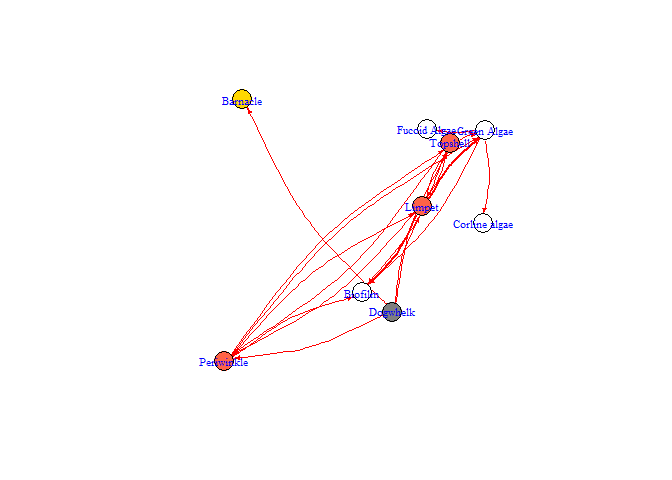
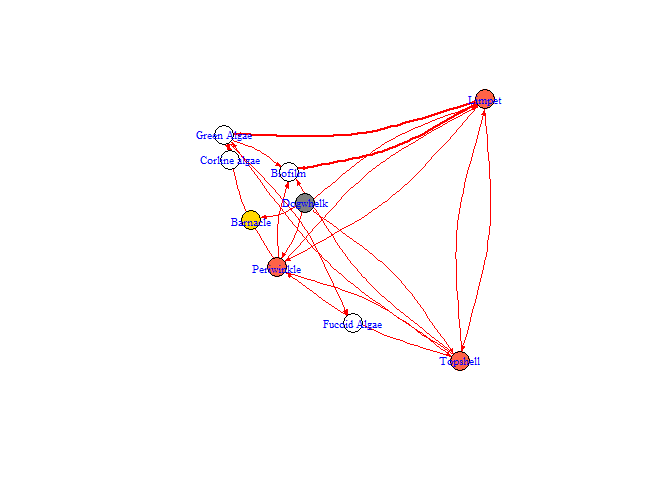
Updated 22 March 2024

diff --git a/README.md b/README.md
@@ -32,6 +32,7 @@ Rick Stafford & Victoria Dominguez Almela
 status](https://www.r-pkg.org/badges/version/bbnet)](https://CRAN.R-project.org/package=bbnet)
 [![Codecov test
 coverage](https://codecov.io/gh/vda1r22/bbnet/branch/main/graph/badge.svg)](https://app.codecov.io/gh/vda1r22/bbnet?branch=main)
+[![R-CMD-check](https://github.com/vda1r22/bbnet/actions/workflows/R-CMD-check.yaml/badge.svg)](https://github.com/vda1r22/bbnet/actions/workflows/R-CMD-check.yaml)
 <!-- badges: end -->
 
 # Introduction
@@ -520,24 +521,25 @@ bbn.sensitivity(bbn.model = my_BBN, boot_max = 100, 'Limpet', 'Green Algae')
 <img src="man/figures/README-unnamed-chunk-8-1.png" width="100%" />
 
     #>                   sens.output Freq
-    #> 1          Dogwhelk->Barnacle    1
-    #> 2        Dogwhelk->Periwinkle    1
-    #> 3            Limpet->Topshell    1
-    #> 4            Dogwhelk->Limpet    2
-    #> 5        Green.Algae->Biofilm    2
-    #> 6  Green.Algae->Corline.algae    2
-    #> 7         Periwinkle->Biofilm    2
-    #> 8     Periwinkle->Green.Algae    2
-    #> 9        Periwinkle->Topshell    2
-    #> 10       Topshell->Periwinkle    2
-    #> 11  Green.Algae->Fucoid.Algae    3
-    #> 12           Topshell->Limpet    3
-    #> 13        Limpet->Green.Algae    4
-    #> 14         Limpet->Periwinkle    4
-    #> 15         Periwinkle->Limpet    4
-    #> 16      Topshell->Green.Algae    4
-    #> 17            Limpet->Biofilm    5
-    #> 18          Topshell->Biofilm    6
+    #> 1          Dogwhelk->Topshell    1
+    #> 2   Green.Algae->Fucoid.Algae    1
+    #> 3             Limpet->Biofilm    1
+    #> 4         Periwinkle->Biofilm    1
+    #> 5        Topshell->Periwinkle    1
+    #> 6          Dogwhelk->Barnacle    2
+    #> 7            Dogwhelk->Limpet    2
+    #> 8        Dogwhelk->Periwinkle    2
+    #> 9         Limpet->Green.Algae    2
+    #> 10         Limpet->Periwinkle    2
+    #> 11    Periwinkle->Green.Algae    2
+    #> 12      Topshell->Green.Algae    2
+    #> 13       Green.Algae->Biofilm    3
+    #> 14           Limpet->Topshell    3
+    #> 15         Periwinkle->Limpet    3
+    #> 16 Green.Algae->Corline.algae    5
+    #> 17       Periwinkle->Topshell    5
+    #> 18          Topshell->Biofilm    5
+    #> 19           Topshell->Limpet    7
 
 The function works by bootstrapping with multiple changes to prior
 values and interaction strengths in the network. The frequency shows the
@@ -654,16 +656,7 @@ bbn.network.diagram(bbn.network = my_network, font.size = 0.7, arrow.size = 4, a
 
 If something is not clear, or missing, or if you would like to request a
 feature, please open an issue on [our GitHub
-repository](https://github.com/Farewe/invacost/issues).
-
-However, remember that we need to find a good balance between
-generalisability and specificity: not enough parameters and users are
-not happy; too many parameters and users are lost in the function usage.
-Therefore, if you have a very specific request that will not be useful
-to other users, do not hesitate to duplicate the source code and adapt
-the function to your needs. On the contrary, if you think of a new thing
-that could be beneficial to many users, please do not hesitate and
-become an official contributor to the package!
+repository](https://github.com/vda1r22/bbnet/issues).
 
 # Citation
 
@@ -673,24 +666,23 @@ acknowledgement for the time spent in writing the package and this
 tutorial. Like all R packages, to know how to cite it, type:
 
 ``` r
-citation("invacost")
-#> To cite invacost in publications use:
+citation("bbnet")
+#> Warning in citation("bbnet"): could not determine year for 'bbnet' from package
+#> DESCRIPTION file
+#> To cite package 'bbnet' in publications use:
 #> 
-#>   Leroy B, Kramer AM, Vaissière A, Kourantidou M, Courchamp F, Diagne C
-#>   (2022). "Analysing economic costs of invasive alien species with the
-#>   invacost R package." _Methods in Ecology and Evolution_, *13*(9),
-#>   1930-1937. <https://doi.org/10.1111/2041-210X.13929>.
+#>   Stafford R, Dominguez Almela V (????). _bbnet: Create simple
+#>   predictive models in ecology, conservation and environmental policy
+#>   based on Bayesian belief networks_. R package version 0.1.0,
+#>   <https://github.com/vda1r22/bbnet>.
 #> 
 #> A BibTeX entry for LaTeX users is
 #> 
-#>   @Article{,
-#>     title = {Analysing economic costs of invasive alien species with the invacost R package.},
-#>     author = {Boris Leroy and Andrew M Kramer and Anne-Charlotte Vaissière and Melina Kourantidou and Franck Courchamp and Christophe Diagne},
-#>     journal = {Methods in Ecology and Evolution},
-#>     year = {2022},
-#>     volume = {13},
-#>     number = {9},
-#>     pages = {1930-1937},
-#>     url = {https://doi.org/10.1111/2041-210X.13929},
+#>   @Manual{,
+#>     title = {bbnet: Create simple predictive models in ecology, conservation and
+#> environmental policy based on Bayesian belief networks},
+#>     author = {Rick Stafford and Victoria {Dominguez Almela}},
+#>     note = {R package version 0.1.0},
+#>     url = {https://github.com/vda1r22/bbnet},
 #>   }
 ```
